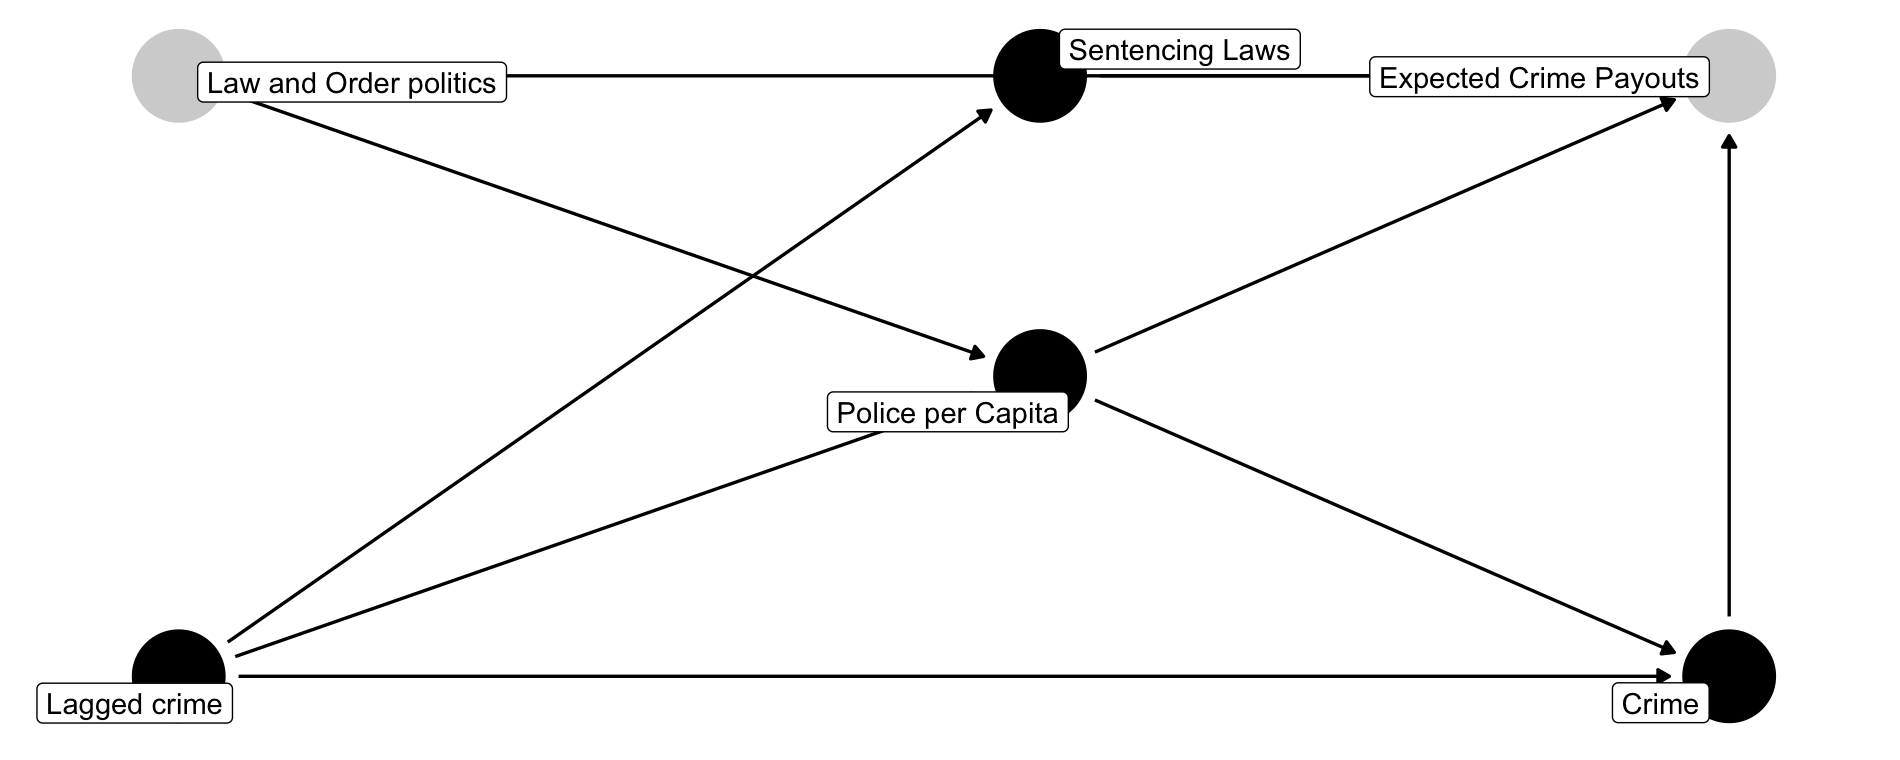
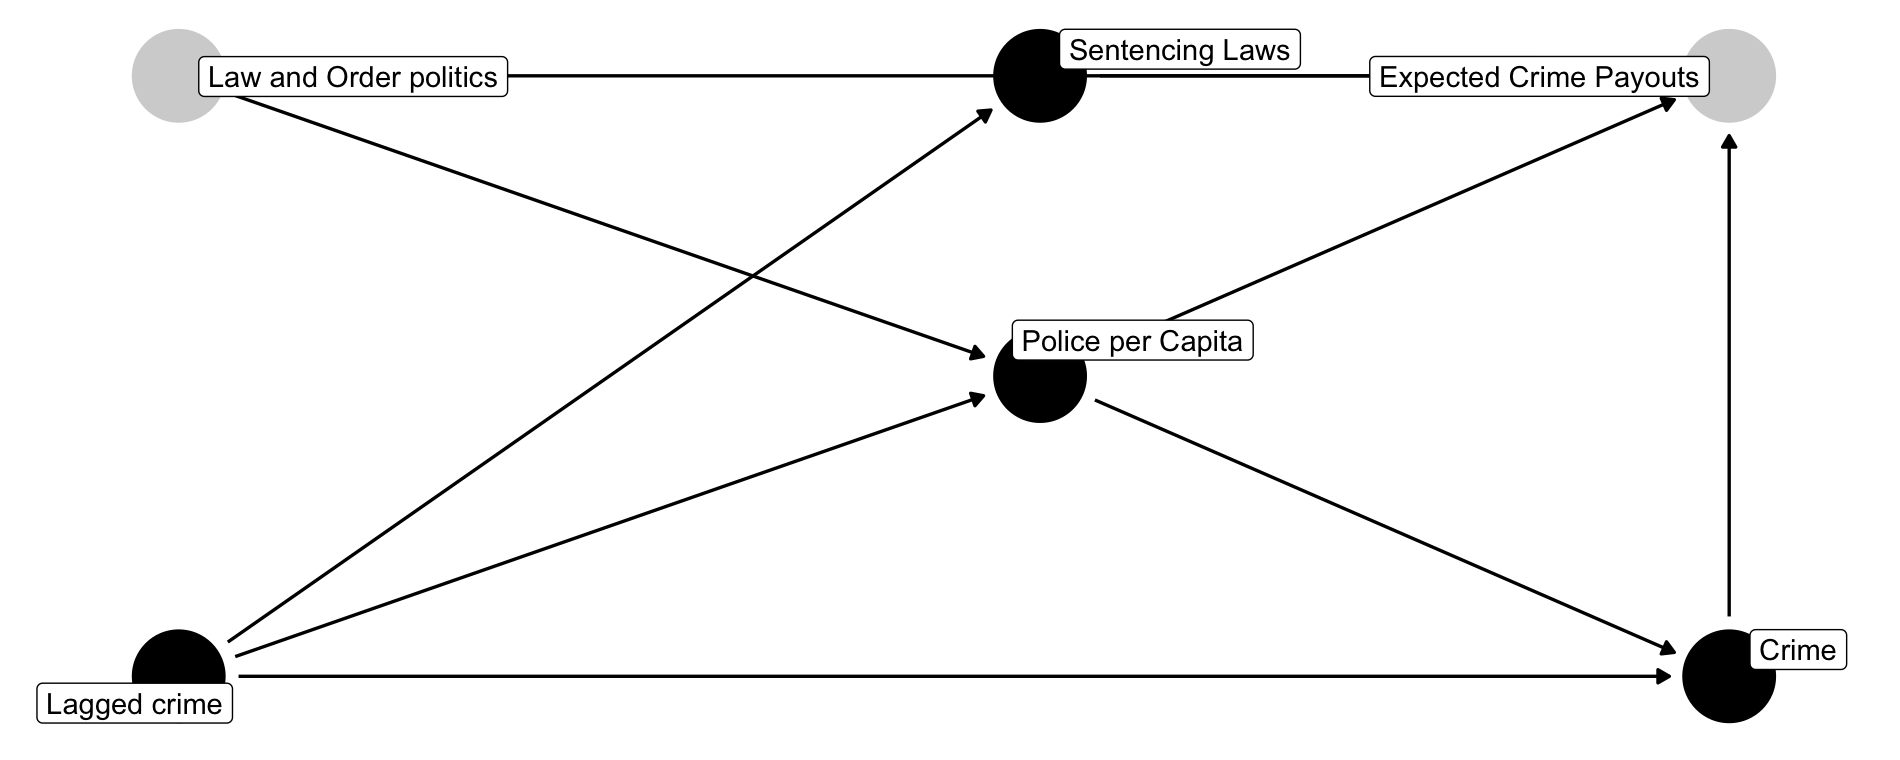
made new changes to new diagrams

diff --git a/CausalDiagrams/CausalDiagrams.html b/CausalDiagrams/CausalDiagrams.html
@@ -311,11 +311,11 @@ We have...
 
 
 &lt;div class="figure"&gt;
-<div id="htmlwidget-aae8b4270a614d7aed10" style="width:100%;height:80px;" class="grViz html-widget"></div>
+<div id="htmlwidget-9679f7c63516c26c0f1d" style="width:100%;height:80px;" class="grViz html-widget"></div>
 <script>HTMLWidgets.pymChild = new pym.Child();HTMLWidgets.addPostRenderHandler(function(){
                                 setTimeout(function(){HTMLWidgets.pymChild.sendHeight();},100);
                             });</script>
-<script type="application/json" data-for="htmlwidget-aae8b4270a614d7aed10">{"x":{"diagram":"digraph \"Causal Diagramm RDD\" {\n  layout=neato\n  fontname=\"Helvetica,Arial,sans-serif\"\n  bgcolor=transparent\n  imagescale=both\n  node [fontname=\"Helvetica,Arial,sans-serif\"]\n  edge [fontname=\"Helvetica,Arial,sans-serif\"]\n  node [shape=none];\n  \"Coin flip (X)\" [pos=\"0,1!\"]\n  \"Cake (Y)\" [pos=\"3,1!\"]\n  \"Coin flip (X)\" -> \"Cake (Y)\"\n  \n}","config":{"engine":"dot","options":null}},"evals":[],"jsHooks":[]}</script>
+<script type="application/json" data-for="htmlwidget-9679f7c63516c26c0f1d">{"x":{"diagram":"digraph \"Causal Diagramm RDD\" {\n  layout=neato\n  fontname=\"Helvetica,Arial,sans-serif\"\n  bgcolor=transparent\n  imagescale=both\n  node [fontname=\"Helvetica,Arial,sans-serif\"]\n  edge [fontname=\"Helvetica,Arial,sans-serif\"]\n  node [shape=none];\n  \"Coin flip (X)\" [pos=\"0,1!\"]\n  \"Cake (Y)\" [pos=\"3,1!\"]\n  \"Coin flip (X)\" -> \"Cake (Y)\"\n  \n}","config":{"engine":"dot","options":null}},"evals":[],"jsHooks":[]}</script>
 &lt;p class="caption"&gt;2: A simple causal diagram&lt;/p&gt;
 &lt;/div&gt;
 
@@ -353,11 +353,11 @@ Ice-cream sales (X) are high when people wear shorts (Y). However, there is no c
 
 
 &lt;div class="figure"&gt;
-<div id="htmlwidget-fdb990f9341c9d3942a8" style="width:100%;height:200px;" class="grViz html-widget"></div>
+<div id="htmlwidget-5f002063bb6860dd953d" style="width:100%;height:300px;" class="grViz html-widget"></div>
 <script>HTMLWidgets.pymChild = new pym.Child();HTMLWidgets.addPostRenderHandler(function(){
                                 setTimeout(function(){HTMLWidgets.pymChild.sendHeight();},100);
                             });</script>
-<script type="application/json" data-for="htmlwidget-fdb990f9341c9d3942a8">{"x":{"diagram":"digraph \"Causal Diagramm RDD\" {\n  layout=neato\n  fontname=\"Helvetica,Arial,sans-serif\"\n  bgcolor=transparent\n  imagescale=both\n  node [fontname=\"Helvetica,Arial,sans-serif\"]\n  edge [fontname=\"Helvetica,Arial,sans-serif\"]\n  node [shape=none];\n  \"Weather (U)\" [pos=\"2,2!\"]\n  \"Shorts (X)\" [pos=\"0,0!\"]\n  \"Ice-Cream (Y)\" [pos=\"4,0!\"]\n  \"Weather (U)\" -> \"Shorts (X)\"\n  \"Weather (U)\" -> \"Ice-Cream (Y)\"\n  \n}","config":{"engine":"dot","options":null}},"evals":[],"jsHooks":[]}</script>
+<script type="application/json" data-for="htmlwidget-5f002063bb6860dd953d">{"x":{"diagram":"digraph \"Causal Diagramm RDD\" {\n  layout=neato\n  fontname=\"Helvetica,Arial,sans-serif\"\n  bgcolor=transparent\n  imagescale=both\n  node [fontname=\"Helvetica,Arial,sans-serif\"]\n  edge [fontname=\"Helvetica,Arial,sans-serif\"]\n  node [shape=none];\n  \"Weather (U)\" [pos=\"1,1!\"]\n  \"Shorts (X)\" [pos=\"0,0!\"]\n  \"Ice-Cream (Y)\" [pos=\"2,0!\"]\n  \"Weather (U)\" -> \"Shorts (X)\"\n  \"Weather (U)\" -> \"Ice-Cream (Y)\"\n  \n}","config":{"engine":"dot","options":null}},"evals":[],"jsHooks":[]}</script>
 &lt;p class="caption"&gt;4: Unobserved variable&lt;/p&gt;
 &lt;/div&gt;
 
@@ -405,11 +405,11 @@ It's a balancing act &amp;mdash; omitting movies is okay, omitting the poverty r
 
 
 &lt;div class="figure"&gt;
-<div id="htmlwidget-676073e8ae29cd26aef2" style="width:100%;height:240px;" class="grViz html-widget"></div>
+<div id="htmlwidget-06a2cc6bb818be644426" style="width:100%;height:350px;" class="grViz html-widget"></div>
 <script>HTMLWidgets.pymChild = new pym.Child();HTMLWidgets.addPostRenderHandler(function(){
                                 setTimeout(function(){HTMLWidgets.pymChild.sendHeight();},100);
                             });</script>
-<script type="application/json" data-for="htmlwidget-676073e8ae29cd26aef2">{"x":{"diagram":"digraph \"Causal Diagramm RDD\" {\n  layout=neato\n  fontname=\"Helvetica,Arial,sans-serif\"\n   bgcolor=transparent\n  imagescale=both\n  fontsize=25\n  node [fontname=\"Helvetica,Arial,sans-serif\"]\n  edge [fontname=\"Helvetica,Arial,sans-serif\"]\n  node [shape=none];\n  \"Law and Order politics\" [pos=\"0,4!\",  fontcolor=\"red\"]\n  \"Sentencing Laws\" [pos=\"3,4!\"]\n  \"Expected Crime Payouts\" [pos=\"6,4!\", fontcolor=\"red\"]\n   \"Police per Capita\" [pos=\"3,2!\"]\n  \"Lagged crime\" [pos=\"0,0!\"]\n  \"Crime\" [pos=\"6,0!\"]\n  \"Law and Order politics\" -> \"Police per Capita\"\n  \"Lagged crime\" -> \"Sentencing Laws\"\n  \"Sentencing Laws\" -> \"Law and Order politics\"\n  \"Lagged crime\" -> \"Police per Capita\" \n  \"Lagged crime\" -> \"Crime\"\n  \"Sentencing Laws\" ->  \"Expected Crime Payouts\"\n  \"Crime\"  -> \"Expected Crime Payouts\"\n  \"Police per Capita\" -> \"Expected Crime Payouts\"\n  \"Police per Capita\" -> \"Crime\"\n}","config":{"engine":"dot","options":null}},"evals":[],"jsHooks":[]}</script>
+<script type="application/json" data-for="htmlwidget-06a2cc6bb818be644426">{"x":{"diagram":"digraph \"Causal Diagramm RDD\" {\n  layout=neato\n  fontname=\"Helvetica,Arial,sans-serif\"\n   bgcolor=transparent\n  imagescale=both\n  fontsize=25\n  node [fontname=\"Helvetica,Arial,sans-serif\"]\n  edge [fontname=\"Helvetica,Arial,sans-serif\"]\n  node [shape=none];\n  \"Law and Order politics\" [pos=\"0,2!\",  fontcolor=\"red\"]\n  \"Sentencing Laws\" [pos=\"3,2!\"]\n  \"Expected Crime Payouts\" [pos=\"6,2!\", fontcolor=\"red\"]\n   \"Police per Capita\" [pos=\"3,1!\"]\n  \"Lagged crime\" [pos=\"0,0!\"]\n  \"Crime\" [pos=\"6,0!\"]\n  \"Law and Order politics\" -> \"Police per Capita\"\n  \"Lagged crime\" -> \"Sentencing Laws\"\n  \"Sentencing Laws\" -> \"Law and Order politics\"\n  \"Lagged crime\" -> \"Police per Capita\" \n  \"Lagged crime\" -> \"Crime\"\n  \"Sentencing Laws\" ->  \"Expected Crime Payouts\"\n  \"Crime\"  -> \"Expected Crime Payouts\"\n  \"Police per Capita\" -> \"Expected Crime Payouts\"\n  \"Police per Capita\" -> \"Crime\"\n}","config":{"engine":"dot","options":null}},"evals":[],"jsHooks":[]}</script>
 &lt;p class="caption"&gt;7: Police presence and crime rate&lt;/p&gt;
 &lt;/div&gt;
 ---
@@ -456,11 +456,11 @@ Moderators are variables that do not necessarily cause another variable (althoug
 
 
 &lt;div class="figure"&gt;
-<div id="htmlwidget-04cd28cfdc3f117a9400" style="width:100%;height:350px;" class="grViz html-widget"></div>
+<div id="htmlwidget-08a057cb0c00bca6ee28" style="width:100%;height:350px;" class="grViz html-widget"></div>
 <script>HTMLWidgets.pymChild = new pym.Child();HTMLWidgets.addPostRenderHandler(function(){
                                 setTimeout(function(){HTMLWidgets.pymChild.sendHeight();},100);
                             });</script>
-<script type="application/json" data-for="htmlwidget-04cd28cfdc3f117a9400">{"x":{"diagram":"digraph \"Causal Diagramm RDD\" {\n  layout=neato\n  fontname=\"Helvetica,Arial,sans-serif\"\n   bgcolor=transparent\n  imagescale=both\n  node [fontname=\"Helvetica,Arial,sans-serif\"]\n  edge [fontname=\"Helvetica,Arial,sans-serif\"]\n  node [shape=none];\n  \"X\" [pos=\"0,1!\"]\n  \"Y\" [pos=\"1,0!\"]\n  \"Z\" [pos=\"2,1!\"]\n  \"X\" -> \"Y\"\n  \"Z\" -> \"Y\"\n}","config":{"engine":"dot","options":null}},"evals":[],"jsHooks":[]}</script>
+<script type="application/json" data-for="htmlwidget-08a057cb0c00bca6ee28">{"x":{"diagram":"digraph \"Causal Diagramm RDD\" {\n  layout=neato\n  fontname=\"Helvetica,Arial,sans-serif\"\n   bgcolor=transparent\n  imagescale=both\n  node [fontname=\"Helvetica,Arial,sans-serif\"]\n  edge [fontname=\"Helvetica,Arial,sans-serif\"]\n  node [shape=none];\n  \"X\" [pos=\"0,1!\"]\n  \"Y\" [pos=\"1,0!\"]\n  \"Z\" [pos=\"2,1!\"]\n  \"X\" -> \"Y\"\n  \"Z\" -> \"Y\"\n}","config":{"engine":"dot","options":null}},"evals":[],"jsHooks":[]}</script>
 &lt;p class="caption"&gt;9: Z moderates X&lt;/p&gt;
 &lt;/div&gt;
 ---
